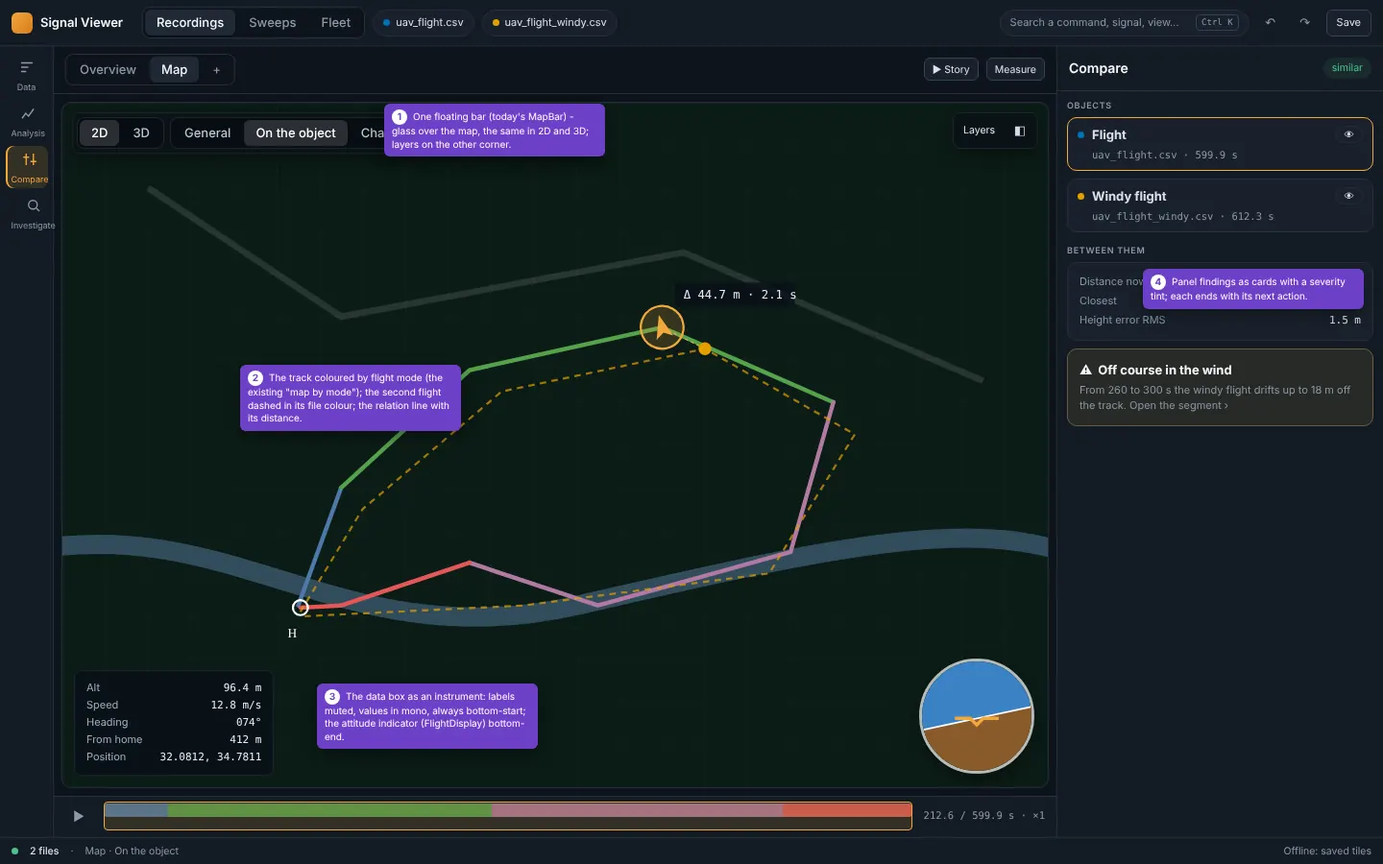
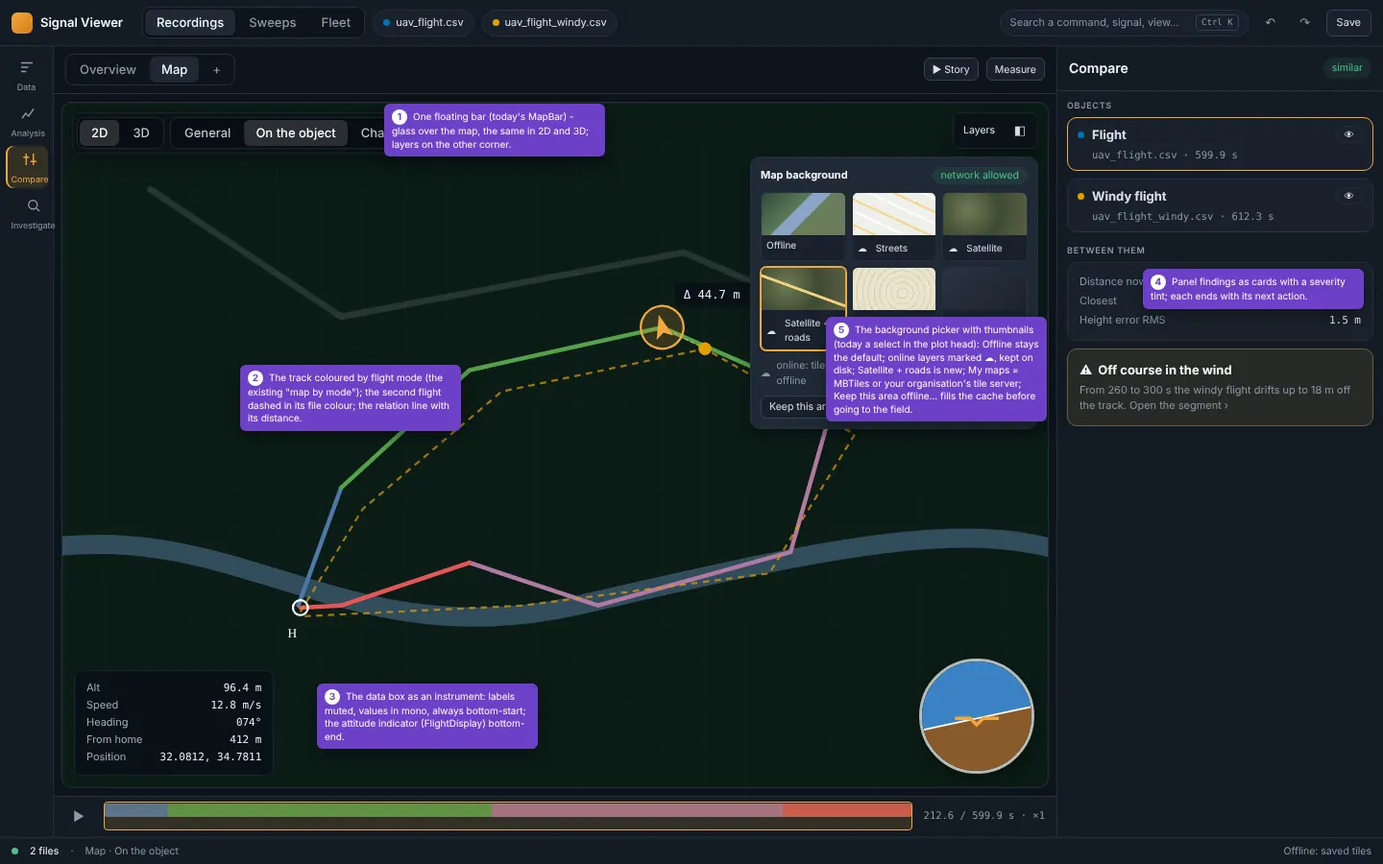
Plan: the map offline first (Phase M) and a prompt any agent can continue from
PLAN_2026-11-14.md §3.7 + Phase M: the online streets / satellite / topo
layers exist but hide in a select - a background picker with thumbnails,
Satellite + roads, Keep this area offline (only from sources whose terms
allow it; never bulk from OpenStreetMap), My maps (MBTiles, the user's tile
server), the offline map's look; Offline stays the default. The map mock-up
shows the picker.

docs/dev/REDESIGN_PROMPT.md: a stage-independent prompt for any AI agent -
what to read, how to find the next task from TASKS.md / ROADMAP / the
commits, set-up, the per-task loop (checks, e2e, pictures, notes, commit and
push), the end of a phase, how to stop and hand over, honest reporting, the
decisions already made. TASKS.md, ROADMAP.md and the continue skill point to it.

Changed region(s): [[0.5312, 0.1556, 0.7812, 0.4978]]

diff --git a/docs/dev/mockups/map.html b/docs/dev/mockups/map.html
@@ -26,6 +26,14 @@
   .obj { display: grid; grid-template-columns: auto 1fr auto; gap: 4px 8px; align-items: center; padding: 8px 10px; border: 1px solid var(--line); border-radius: var(--r-card); background: var(--panel-2); }
   .obj.sel { border-color: var(--amber); }
   .obj .meta { grid-column: 2 / span 2; color: var(--muted); font-size: var(--fs-xs); font-family: var(--mono); }
+  .layers { position: absolute; top: 56px; inset-inline-end: 10px; width: 300px; padding: 10px; border-radius: var(--r-card); background: var(--raised);
+    border: 1px solid var(--line); box-shadow: var(--shadow-md); display: grid; gap: 8px; z-index: 3; }
+  .layers .tiles { display: grid; grid-template-columns: repeat(3, 1fr); gap: 6px; }
+  .layers .t { border: 1px solid var(--line); border-radius: var(--r-m); overflow: hidden; font-size: var(--fs-2xs); background: var(--panel-2); }
+  .layers .t.on { border-color: var(--amber); box-shadow: 0 0 0 1px var(--amber); }
+  .layers .t i { display: block; height: 44px; }
+  .layers .t span { display: flex; gap: 4px; align-items: center; padding: 3px 5px; color: var(--ink); }
+  .layers .row { display: flex; align-items: center; gap: 6px; font-size: var(--fs-xs); color: var(--muted); }
 </style>
 </head>
 <body>
@@ -78,6 +86,19 @@
         <div class="float" style="top:10px;inset-inline-end:10px">
           <span style="padding:0 6px;font-size:var(--fs-xs)" data-he="שכבות">Layers</span><button class="icon">◧</button>
         </div>
+        <div class="layers">
+          <div class="row"><b style="color:var(--ink-strong);font-size:var(--fs-s)" data-he="רקע המפה">Map background</b><span class="spacer"></span><span class="chip ok" style="height:18px" data-he="רשת מותרת">network allowed</span></div>
+          <div class="tiles">
+            <div class="t"><i style="background:linear-gradient(135deg,#2e4a3a,#5d7a5a 40%,#8aa5c8 41%,#8aa5c8 55%,#6b7d5a 56%)"></i><span data-he="לא מקוון">Offline</span></div>
+            <div class="t"><i style="background:repeating-linear-gradient(25deg,#eef0ea 0 9px,#f6d58a 9px 11px,#eef0ea 11px 22px,#fff 22px 24px)"></i><span>☁ <span data-he="כבישים">Streets</span></span></div>
+            <div class="t"><i style="background:radial-gradient(circle at 30% 40%,#6f7c55,#3e4a33 50%,#5c6046)"></i><span>☁ <span data-he="לוויין">Satellite</span></span></div>
+            <div class="t on"><i style="background:linear-gradient(20deg,transparent 45%,#f2d27a 46%,#f2d27a 49%,transparent 50%),radial-gradient(circle at 30% 40%,#6f7c55,#3e4a33 50%,#5c6046)"></i><span>☁ <span data-he="לוויין + כבישים">Satellite + roads</span></span></div>
+            <div class="t"><i style="background:repeating-radial-gradient(circle at 60% 60%,#e9e4cf 0 5px,#d9cfa8 5px 6px)"></i><span>☁ <span data-he="טופוגרפי">Topo</span></span></div>
+            <div class="t"><i style="background:linear-gradient(135deg,#2b3240,#1d232d)"></i><span>📁 <span data-he="המפות שלי">My maps</span></span></div>
+          </div>
+          <div class="row">☁ <span data-he="מקוון: האריחים נשמרים בדיסק ונשארים זמינים בלי רשת">online: tiles are kept on the disk and stay available offline</span></div>
+          <div style="display:flex;gap:6px"><button class="btn sm" data-he="שמור את האזור הזה ללא רשת…">Keep this area offline…</button><button class="btn sm ghost" data-he="הוסף מפה…">Add a map…</button></div>
+        </div>
         <div class="readout">
           <span data-he="גובה">Alt</span><span>96.4 m</span><span data-he="מהירות">Speed</span><span>12.8 m/s</span><span data-he="כיוון">Heading</span><span>074°</span>
           <span data-he="מהבית">From home</span><span>412 m</span><span data-he="מיקום">Position</span><span>32.0812, 34.7811</span>
@@ -110,6 +131,7 @@
 <div class="note" data-n="1" style="top:108px;left:400px">One floating bar (today's MapBar) - glass over the map, the same in 2D and 3D; layers on the other corner.</div>
 <div class="note" data-n="2" style="top:380px;left:250px">The track coloured by flight mode (the existing "map by mode"); the second flight dashed in its file colour; the relation line with its distance.</div>
 <div class="note" data-n="3" style="bottom:120px;left:330px">The data box as an instrument: labels muted, values in mono, always bottom-start; the attitude indicator (FlightDisplay) bottom-end.</div>
+<div class="note" data-n="5" style="top:330px;right:350px">The background picker with thumbnails (today a select in the plot head): Offline stays the default; online layers marked ☁, kept on disk; Satellite + roads is new; My maps = MBTiles or your organisation's tile server; Keep this area offline… fills the cache before going to the field.</div>
 <div class="note" data-n="4" style="top:280px;right:20px">Panel findings as cards with a severity tint; each ends with its next action.</div>
 </body>
 </html>

diff --git a/docs/dev/REDESIGN_PROMPT.md b/docs/dev/REDESIGN_PROMPT.md
@@ -1,0 +1,123 @@
+# Prompt – continue the redesign (any stage, any AI agent)
+
+Give this file to any AI coding agent (Claude Code, Codex, Cursor, Copilot, Gemini, …) on a clone of this repository:
+*"Read `docs/dev/REDESIGN_PROMPT.md` and do it."* It is written so the agent finds by itself where the work stopped and
+continues from there, one task at a time, the same way at every stage. Nothing in it depends on one agent's tools.
+
+---
+
+## 1. Who you work for, and how
+
+- The owner is **David Alpert**. He reads **Hebrew**: every report to him is in Hebrew, plain, the outcome first. Code,
+  comments, documentation and commit messages stay in **English**.
+- The product is **Signal Viewer**: a local, offline desktop app for analysing time signals – a Python FastAPI backend
+  (`backend/`) and a React + TypeScript UI (`frontend/`), English and Hebrew (RTL), light and dark. Users: flight-test and
+  drone engineers (ArduPilot `.bin`, MAVLink `.tlog`, PX4 `.ulg`), simulation engineers (MATLAB `.mat`, Python), test
+  benches (CSV, Parquet, HDF5), ROS 2 (`.mcap`). **It is an analysis tool for any time signals, not an ArduPilot tool.**
+- The work: **the redesign of 2026-11-14** – Sweeps as one study for both flows, a design system ("a quiet frame, the data
+  speaks"), plots, the map, every area, then new capabilities. The plan is approved: **`docs/dev/PLAN_2026-11-14.md`**.
+
+## 2. Read first (in this order, every time you start)
+
+1. `CLAUDE.md` – the binding rules (they override this file). In short: one way to do a thing; a control in exactly one
+   place (the command palette and shortcuts are the only second entries); every user-visible string in
+   `frontend/src/i18n/` in `en` and `he`; CSS variables only (no literal colours / sizes / radii – a test enforces it);
+   saved files backward compatible (new fields optional, never rename a saved field); heavy work in the backend; offline,
+   127.0.0.1 only; every workspace change through `commit` (Undo); formulas only through the AST whitelist.
+2. `docs/dev/PLAN_2026-11-14.md` – what to build and why: §0 the summary, §2.2 the feature checklist that must survive,
+   §3.4 the design rules, §3.6 *any data, not only ArduPilot*, §3.7 the map, §4 Sweeps, §5 the design system, §6 what moves
+   where, **§7 the tasks (each with *Done when* and its e2e files)**, §8 the owner's decisions (all answered).
+3. `docs/dev/TASKS.md` – **"Current state"** at the top and the **last lines of "Log"** at the bottom: what is done, where
+   the last session stopped, what is next.
+4. `docs/dev/ROADMAP.md` – the last milestone (32): which phases are ticked.
+5. `git log --oneline -15` – the last commits (each task is one commit, its title names the task: `A1 …`, `C4 …`).
+6. `docs/dev/E2E_MAP.md` – which e2e files cover which change. Mock-ups: `docs/dev/mockups/index.html` (open it in a
+   browser; each page switches dark / light, EN / HE). The app before the redesign: `docs/dev/mockups/before/`.
+7. If you are Claude Code: also load the skill `.claude/skills/signalviewer-continue/SKILL.md` (paths, sandbox quirks).
+
+## 3. Find where you are
+
+- The **order of phases** is fixed: **A → C → B → M → D → E → F** (§7 of the plan; F: F3, F1, F2, F5 first, then F4, F6;
+  F7 and F8 only if the owner asks).
+- The **next task** is the first task of that order that is not done. A task is done when its line in `TASKS.md` says
+  *done* and a commit with its id exists. If `TASKS.md` says a task was **stopped in the middle**, continue it from the
+  note it left (do not start it over); check the working tree (`git status`) for unfinished changes first.
+- If `TASKS.md` and the commits disagree, trust the code: read the task's *Done when* and check it.
+- If the owner gave you a different instruction in his message, it overrides this order.
+
+## 4. Set up (once per machine)
+
+```bash
+pip install -r requirements.txt            # if pywebview fails to build (no GUI): install the rest without it
+pip install -r requirements-dev.txt
+cd frontend && npm ci && cd ..
+python tools/quick_check.py                # the baseline must be green before you change anything
+```
+- e2e and pictures need Playwright with Chromium. If a Chromium is installed elsewhere, point the tools at it:
+  `export SV_CHROMIUM=/path/to/chrome`.
+- After a frontend change the app's first start rebuilds the UI (~1 min): warm it before e2e with
+  `python run.py --port 8777 --no-open --browser` (stop it after "running at").
+
+## 5. One task – the loop
+
+1. **Read** the task in the plan (§7: *Done when*, e2e files) and the section it refers to. Read the code you will
+   change **and every caller of it** (`grep` the symbol in `backend/` and `frontend/src/`). Prefer extending an existing
+   mechanism over adding a parallel one.
+2. **Pictures before** (if the screen changes): `python tools/plan_screens.py --out docs/dev/mockups/<task>/before`.
+3. **Change** the code – only what the task needs. New strings in both languages. New CSS uses tokens. Saved files stay
+   readable by the previous version and old files open.
+4. **Check**:
+   - `python tools/quick_check.py` – tsc, Vitest, backend pytest, mypy – all green.
+   - Add or update tests: a backend test for backend behaviour, Vitest for frontend logic without a screen, e2e for UI
+     flows. e2e tests wait on state (`window.__sv.state()`, `window.__svSweeps`, `data-*` attributes), **never on a sleep**.
+   - Run **only the e2e files of the task** (plan §7, `E2E_MAP.md`) – and, if the change alters what is on screen by
+     default, also the files of the views that gain or lose space: `python -m pytest -q tests/e2e/test_<x>.py`.
+     Update a selector when a control moved; **never weaken an assertion**.
+   - Where speed matters (Sweeps on a million runs, the plots' `test_perf_budget`), measure before and after.
+5. **Pictures after** (`.../<task>/after`), dark / light, en / he for anything visible; `python tools/count_controls.py`
+   when controls moved (no screen may end with more controls than before).
+6. **Write it down** (same commit): `TASKS.md` (the task's status, "Current state", one Log line: date, task, what ran
+   and passed, what is next), tick it in `ROADMAP.md`, a user-facing line in `CHANGELOG.md` under the next version
+   (`## 1.28.0 – unreleased`; create the heading if missing), a line in `E2E_MAP.md` for each e2e file written or changed.
+7. **Commit and push** – one task per commit, straight to `main`, no pull request:
+   ```bash
+   git -c user.name="David Alpert" -c user.email="davidalpert11@gmail.com" commit --author="<Your agent's name> <its email>" -m "C4 One store, one Undo for a study" -m "<what and why>"
+   git pull --rebase origin main && git push origin HEAD:main
+   ```
+   (The committer is the owner; the author is the agent. Never force-push. If pushing is refused, make a patch:
+   `git format-patch <base>..HEAD --stdout > redesign_<task>.patch` and say where it is.)
+
+## 6. The end of a phase
+
+- Run the **whole e2e suite** (`python -m pytest -q tests/e2e`, ~30 min; in the background; clean `/tmp/pytest-of-*`
+  between big runs on a small disk). Fix what it finds.
+- Build the UI once: `cd frontend && npm run build` (updates the committed `frontend/dist`).
+- **Report to the owner in Hebrew**: what changed (the outcome first), before / after pictures, what was checked and
+  passed, what was not checked, what is next. Then continue with the next phase unless he said to wait.
+
+## 7. Before you stop (any reason – done, out of context, an error you cannot fix)
+
+Update `TASKS.md` "Current state" with: the task, how far it got, the files changed and not committed, the exact next
+step, anything you found that the next agent must know. Commit (even a work-in-progress commit titled `WIP <task>: …`)
+and push. The next agent starts from §2 of this file and must be able to continue without asking.
+
+## 8. Honest reporting
+
+- Say *verified* only for what ran and passed; *partially verified* with what did not run; *not verified* otherwise.
+- **Never claim** what cannot be checked without Windows or a GPU: the Portable (`SignalViewer.exe study …`), the
+  pywebview close prompt, a real farm launcher, frame rates on a real graphics card – these are the owner's to check.
+- Releases and tags are the owner's: never create a tag or a release.
+- If a decision is truly not in the plan (a new trade-off), stop that part, ask the owner in Hebrew with a
+  recommendation, and continue with another task meanwhile.
+
+## 9. Decisions already made (do not ask again)
+
+Layout A for Sweeps (navigator: Set up · Tables with rounds · Together; the middle; the Run column) · both flows in one
+study: *I have results* / *Start from nothing*, continue later · `.svstudy.json` with an optional `workspace` block is the
+study file; `.svsweep` keeps opening and saving for one table without set-up · the Goal step writes the study's goal ·
+amber only for the cursor and time; selection / active / primary a neutral ink ring; the 2nd trace colour moved off the
+cursor's hue · one top row, plot tabs in the stage bar · IBM Plex Mono for numbers · *at a glance* (extending the
+existing strip), a mode echo in each plot card, help behind `?` – each can be turned off · every idea format-neutral,
+profiles are templates, one *Checks* view (limits + data quality + a log's health check) · the map: Offline stays the
+default; online layers opt-in, through the app, cached, blocked by *Never use the network*; no bulk download from
+OpenStreetMap · order A → C → B → M → D → E → F.

diff --git a/docs/dev/PLAN_2026-11-14.md b/docs/dev/PLAN_2026-11-14.md
@@ -1,7 +1,8 @@
 # Plan – the redesign of 2026-11-14 (Sweeps as one workspace, modern plots and look)
 
 Spec: `docs/dev/AGENT_PROMPT_2026-11-14.md`. Base: `main` at `44f97e5` (1.27.0 final, not tagged). **Approved by the owner on 2026-11-14 (every
-recommendation of §8 accepted); §3.6 added after his approval, at his request.** Pictures: `docs/dev/mockups/` (open
+recommendation of §8 accepted); §3.6 (any data) and §3.7 (the map) added after his approval, at his request. Any agent continues with
+`docs/dev/REDESIGN_PROMPT.md`.** Pictures: `docs/dev/mockups/` (open
 `index.html`; each page has a corner switch dark / light, EN / HE, notes on / off), the app as it is today in
 `docs/dev/mockups/before/` (made by `tools/plan_screens.py`).
 
@@ -35,6 +36,9 @@ recommendation of §8 accepted); §3.6 added after his approval, at his request.
   the domain's content (ArduPilot, a car, a test bench, a simulation). Health becomes one *Checks* view (limits + data
   quality + a log's health), the summary row extends the existing *run at a glance* strip, F1 / F3 / F4 / F6 become
   *The file*, *Parameters of a run*, live instruments for any source, vectors along any path.
+- **The map (§3.7).** Online streets / satellite / topo already exist but hide in a select; proposed: a background
+  picker with thumbnails, *Satellite + roads*, *Keep this area offline…* (only from sources whose terms allow it), *My
+  maps* (MBTiles, the organisation's tile server); Offline stays the default.
 - **Every feature stays.** §2.2 is the acceptance checklist (every capability and where it is today → where it goes).
 - **Order of work:** A tokens + components → C Sweeps as one study → B plots → D every area → E docs and release → F the
   chosen new capabilities (§7).
@@ -336,6 +340,37 @@ mostly neutral (a few dozen strings say *flight* where they mean *recording*).
 - **Mock-up** `recordings-any.html`: the same screen as `recordings.html` on the three car runs – the strip, the checks'
   counts, the chips from the columns, DriveMode as the band, no Map / 3D (positions absent).
 
+### 3.7 The map – as good-looking as ArduDeck's, offline first
+
+The owner (2026-11-14): *"The map ArduDeck shows looks better, with roads etc. Our app is mainly for offline use, but
+maybe we should also offer the map view they have."*
+
+**Theirs (observed in `telemetry_tactical.jpg`; the README names Leaflet):** satellite imagery at street level, buildings
+and roads visible, the map as the main surface, a *Layers* button, an *Offline maps* button, 2D | 3D. Their tile
+provider is not named in what was read – nothing here depends on it.
+
+**Ours (checked in the code):**
+- *Automatic* = **the offline map** drawn by the app from bundled data (`app/basemap.py`): hill shading, water, rivers,
+  main roads worldwide (Natural Earth), OpenStreetMap roads in Israel and around it down to regional roads, runways;
+  place names drawn crisp in the UI language; up to zoom 14.
+- **Online layers already exist** (`app/tiles.py`): OpenStreetMap, Esri streets, Esri satellite, OpenTopoMap, Esri light /
+  dark canvases – fetched *through the app* (the page never talks to the internet), kept in `~/.signalviewer/tiles`
+  (still shown offline afterwards), attribution shown, an amber *Online map* sign; *Never use the network* (Settings /
+  `SV_OFFLINE=1`) refuses every download. Over satellite the app draws borders and place names, not roads.
+
+**So the gap is not the source, it is reaching it and what is missing on top:**
+
+| Gap | Proposal |
+|---|---|
+| The layer is a select in the plot head (*Map: automatic (offline)*) – few find the satellite | **M1** a *Map background* picker in the map's glass bar: thumbnails (Offline · Streets · Satellite · Satellite + roads · Topo · My maps), online ones marked ☁, with the reason when the network is off; the choice remembered (and per session, as today) |
+| Satellite has no roads | **M2** *Satellite + roads*: the imagery with a transparent roads-and-labels layer on top (a reference layer of the same provider – its terms checked before use; the app already draws such overlays for the grey canvases) |
+| Street-level detail offline needs the internet once, by chance | **M3** *Keep this area offline…*: for the open recordings' area (or the view), a zoom range, the size estimated, downloaded into the cache before going to the field – **only from sources whose terms allow it** (OpenStreetMap's servers forbid bulk downloads: never from them; a user's own server: yes; others per their terms) – and a list of kept areas with their size and *Delete* |
+| No way to use the organisation's own maps (a closed network, a GIS department) | **M4** *My maps*: raster **MBTiles** files (SQLite – Python's standard library, no new package) and a tile-server address of the user's (XYZ / TMS, e.g. a server on the local network) – used like any layer, in 2D and 3D, offline from the internet |
+| The offline map's look | **M5** the offline map's colours from the new tokens (dark / light), roads drawn wider at high zoom, the track and objects always above the labels |
+
+The default stays **Offline**; everything online is opt-in, through the app, cached, and blocked by *Never use the
+network*. Mock-up: `map.html` (the picker open, *Satellite + roads* chosen).
+
 ## 4. Sweeps as one study, whatever the starting point
 
 ### 4.1 How the owner's users work (the two flows, and continuing)
@@ -603,6 +638,15 @@ pictures (`tools/plan_screens.py`). End of each phase: the whole e2e suite in th
 | B6 Map / 3D chrome: one glass bar, data box instrument, attitude bottom-end | the map files green | `test_map_objects`, `test_map_smooth`, `test_globe3d`, `test_object_relations`, `test_live_report` |
 | B7 Sweeps charts on the same styles (parallel plot, desk, space, convergence) | | `test_sweeps_charts`, `test_study_demo` |
 
+### Phase M – the map (§3.7; after B6, which restyles the map's chrome)
+| Task | Done when | e2e / tests |
+|---|---|---|
+| M1 *Map background* picker in the glass bar (thumbnails, ☁ online, the reason when the network is off); the plot head's select removed | one place for the layer; the session keeps it | `test_offline_map`, `test_map_objects`, `test_map_export` |
+| M2 *Satellite + roads* (reference overlay; its provider's terms written in `app/tiles.py`) | drawn in 2D and 3D, attribution shown | `test_offline_map`, `test_globe3d` |
+| M3 *Keep this area offline…* (area, zooms, size estimate, progress, stop; the kept areas listed with size, Delete); refuses sources whose terms forbid bulk download | a kept area shows with *Never use the network* on | backend test (a mock tile server), e2e |
+| M4 *My maps*: raster MBTiles files and a user tile address (XYZ / TMS); Settings > Map and objects lists them | an MBTiles fixture draws in 2D and 3D offline | backend test, `test_offline_map` |
+| M5 The offline map's colours from the tokens, roads at high zoom, the track above the labels | pictures dark / light, he / en | `test_offline_map`, `test_map_smooth` |
+
 ### Phase D – every area adopts the look (one area per task; pictures and a recount each)
 D1 the top row + the stage bar (decision 5) · D2 Files / signals panel (quick chips, counts) · D3 Analysis · D4 Compare
 (+ Compare objects) · D5 Investigate + What changed (mock-up) · D6 Report + preview · D7 the *Checks* view (limits + data quality + a log's health check, tinted cards) and the *run at a glance*
@@ -644,7 +688,9 @@ E4 a test-bench example (Parquet / HDF5 + `checks.json`) on the welcome · E3 `f
 
 **Answered 2026-11-14: every recommendation below accepted** (layout A, one study file, the Goal step writes the study,
 the accent split, one top row, IBM Plex Mono, the three look additions, Phase F with F3 / F1 / F2 / F5 first then F4 /
-F6, F7 later, the order A → C → B → D → E → F). Still open: F8 (the Fleet for any format) – later.
+F6, F7 later, the order A → C → B → D → E → F). Added the same day at the owner's request: Phase M, the map (§3.7) – it
+runs after Phase B (order A → C → B → M → D → E → F). To check before M2 / M3: each online provider's terms for an overlay
+and for keeping an area (the owner may know which providers his users may use). Still open: F8 (the Fleet for any format) – later.
 
 1. **Sweeps** – one study for both flows (*I have results* / *Start from nothing*, continue later), the fourteen
    duplicates each in one place (§4.2), layout A: navigator + middle + Run column – *recommended* / B tabs / C a wizard.

diff --git a/docs/dev/TASKS.md b/docs/dev/TASKS.md
@@ -14,6 +14,10 @@ developer or agent can pick up a task cold. `ROADMAP.md` is the catalogue (every
 ## Current state
 
 - **Redesign round (owner, 2026-11-14) – PLAN APPROVED (every recommendation of §8); no product code changed yet. Next: A1.**
+  **Any agent continues with `docs/dev/REDESIGN_PROMPT.md`** (stage-independent: it finds the next task from this file,
+  the roadmap and the commits). Order: A → C → B → M → D → E → F. Phase M (the map, §3.7, added at the owner's request):
+  M1 background picker · M2 Satellite + roads · M3 Keep this area offline · M4 My maps (MBTiles, own tile server) · M5
+  the offline map's look.
   Also asked and added (§3.6): Signal Viewer is an analysis tool for any data, not only ArduPilot – every ArduDeck idea
   made format-neutral (profiles = templates; one *Checks* view = limits + data quality + a log's health; the existing
   *run at a glance* strip extended; F1 / F3 / F4 / F5 / F6 for any format), D13 wording / icons audit, D14 profiles, E4 a
@@ -4116,3 +4120,4 @@ https://davidalpert11.github.io/SignalViewer/ (the README badge and links alread
 - 2026-11-14 · Redesign round, Phase 1 (planning): `docs/dev/PLAN_2026-11-14.md` + mock-ups (`docs/dev/mockups/`, 4 pages × dark en / light he) + the app as it is (`docs/dev/mockups/before/`, 31 pictures, `tools/plan_screens.py`); ArduDeck read from its site, repository, forum thread and three screenshots (sources in the plan §3). No product code changed; nothing to test (no checks run). Next: the owner decides §8, then Phase A.
 - 2026-11-14 · Plan revised after the owner's answer: Sweeps as one study for both flows (results first / runs first, continue later; `PLAN` §4: the fourteen duplicates and their one place each, Set up · Tables · Together · Run, the engine's start grid for any study), ArduDeck compared both ways in design (§3.2) and capabilities (§3.3) with a new design idea (§3.4) and an optional Phase F; mock-up `sweeps-start.html`. No product code changed. Next: the owner's answers to §8.
 - 2026-11-14 · Owner approved the plan (all of §8). Added at his request §3.6 – the ArduDeck ideas made general for any data (profiles, one Checks view, the run-at-a-glance strip extended, F1/F3–F6 format-neutral, D13, D14, E4, F8) and the mock-up `recordings-any.html`. No product code changed. Next: Phase A, A1.
+- 2026-11-14 · Owner: the map should look as good as ArduDeck's (roads) while staying offline-first – plan §3.7 + Phase M (M1–M5), the map mock-up shows the background picker; and a prompt any AI agent can continue from at any stage: `docs/dev/REDESIGN_PROMPT.md`. No product code changed. Next: A1.

diff --git a/docs/dev/ROADMAP.md b/docs/dev/ROADMAP.md
@@ -926,6 +926,7 @@ The owner opened Sweeps after Milestone 23 and found it a mess. Redone, and the 
 - [ ] A1–A4 Tokens and components (new values, `--warn` and tints, elevation, IBM Plex Mono, one definition per component, cards / tables / KPI).
 - [ ] C1–C11 Sweeps as one study for both flows (results first / runs first, continue later): `start` for any study, tables by round, set-up from a table, one vocabulary, the Goal step writes the study, one store and Undo, `.svstudy.json` + `workspace`, New study + Set up, the navigator, the Run column, one Next runs, entry points, three walkthroughs as e2e.
 - [ ] B1–B7 Plots (the plot card, legend with values, mode band, uPlot theme, timeline, Map / 3D chrome, Sweeps charts).
+- [ ] M1–M5 The map, offline first (a background picker, Satellite + roads, keep an area offline, My maps: MBTiles / own tile server, the offline map's look).
 - [ ] D1–D14 Every area adopts the look (pictures and a recount per area); D13 wording / icons audit; D14 profiles (templates with their at-a-glance numbers and chips).
 - [ ] E1–E4 Docs, pictures, a test-bench example, 1.28.0 (the owner tags).
 - [ ] F1–F7 New capabilities the owner picks (messages, window statistics, parameters + two logs compared, live instruments, height profile, vectors along the path, pop-out; F8 the Fleet for any format – later), all format-neutral (§3.6).

diff --git a/.claude/skills/signalviewer-continue/SKILL.md b/.claude/skills/signalviewer-continue/SKILL.md
@@ -81,9 +81,9 @@ python tools/quick_check.py            # tsc -b, vitest, backend pytest -x, mypy
 
 **2026-11-14 (newest): a planned redesign - start with `docs/dev/AGENT_PROMPT_2026-11-14.md`** (Sweeps as one
 workspace, plots inspired by ArduDeck, a modern design system; planning first, the owner approves before code).
-The plan is written: `docs/dev/PLAN_2026-11-14.md` (mock-ups `docs/dev/mockups/`, the app as it was in
+**Approved; continue with `docs/dev/REDESIGN_PROMPT.md`** (any stage). The plan: `docs/dev/PLAN_2026-11-14.md` (mock-ups `docs/dev/mockups/`, the app as it was in
 `docs/dev/mockups/before/` via `tools/plan_screens.py`). Build only after the owner answered its §8; then phase by phase
-(A → C → B → D → E unless he chose otherwise), one task per commit.
+(A → C → B → M → D → E → F), one task per commit.
 
 ### Earlier (the owner, 2026-11-13)
 
